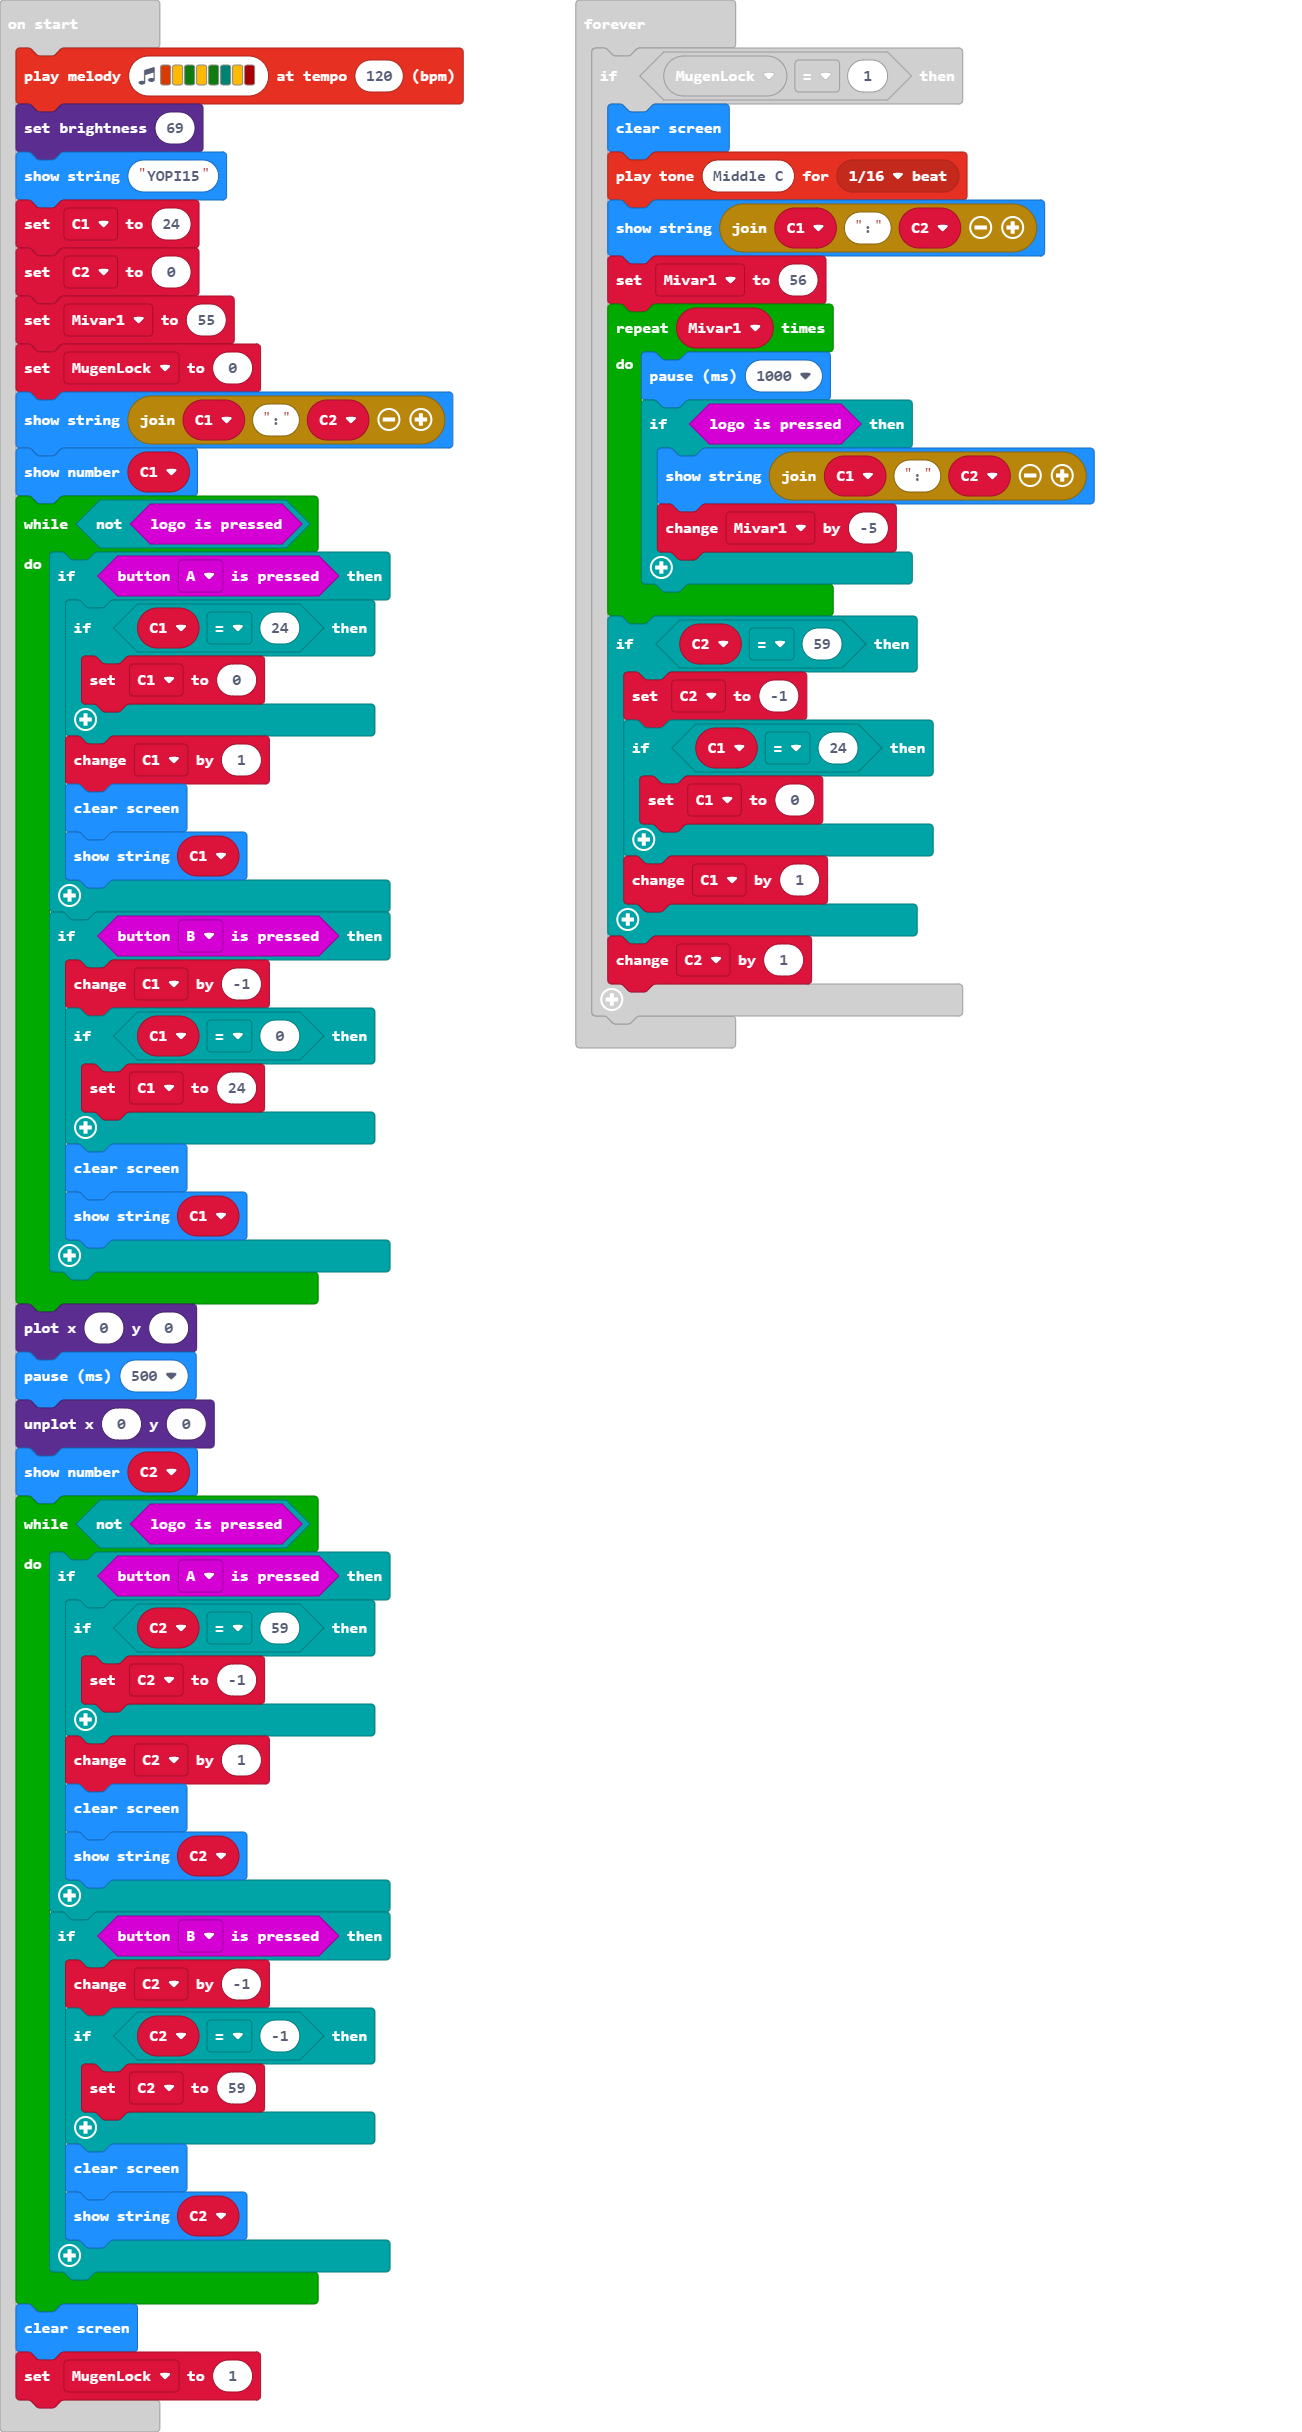
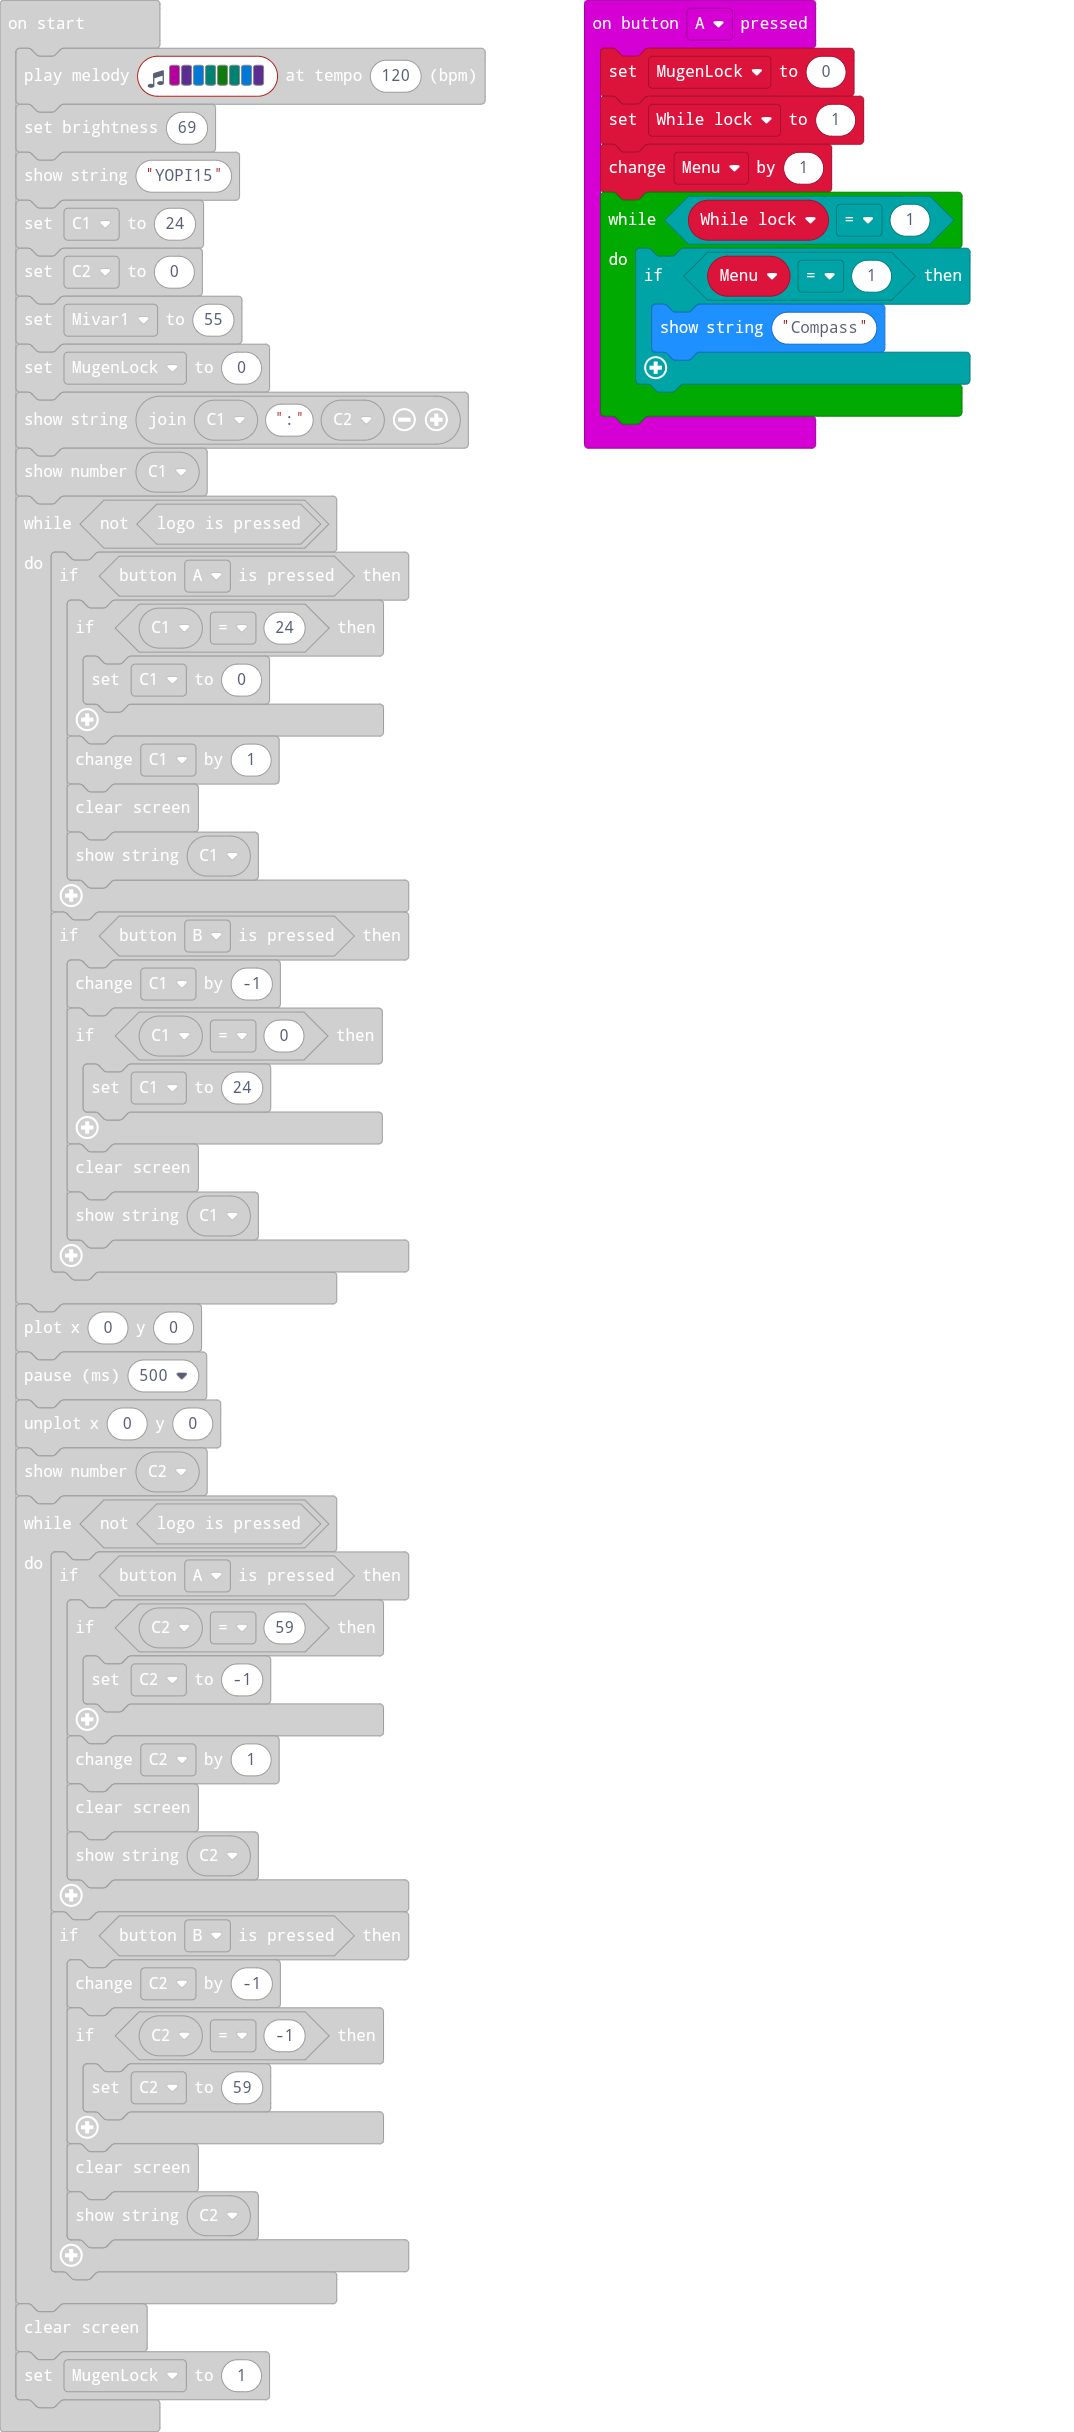
Update main.blocks, main.ts

diff --git a/main.ts b/main.ts
@@ -1,10 +1,23 @@
-music.playMelody("B A G A G F A C5 ", 120)
+input.onButtonPressed(Button.A, function () {
+    MugenLock = 0
+    While_lock = 1
+    Menu += 1
+    while (While_lock == 1) {
+        if (Menu == 1) {
+            basic.showString("Compass")
+        }
+    }
+})
+let Menu = 0
+let While_lock = 0
+let MugenLock = 0
+music.playMelody("C D E F G F E D ", 120)
 led.setBrightness(69)
 basic.showString("YOPI15")
 let C1 = 24
 let C2 = 0
 let Mivar1 = 55
-let MugenLock = 0
+MugenLock = 0
 basic.showString("" + C1 + ":" + C2)
 basic.showNumber(C1)
 while (!(input.logoIsPressed())) {
